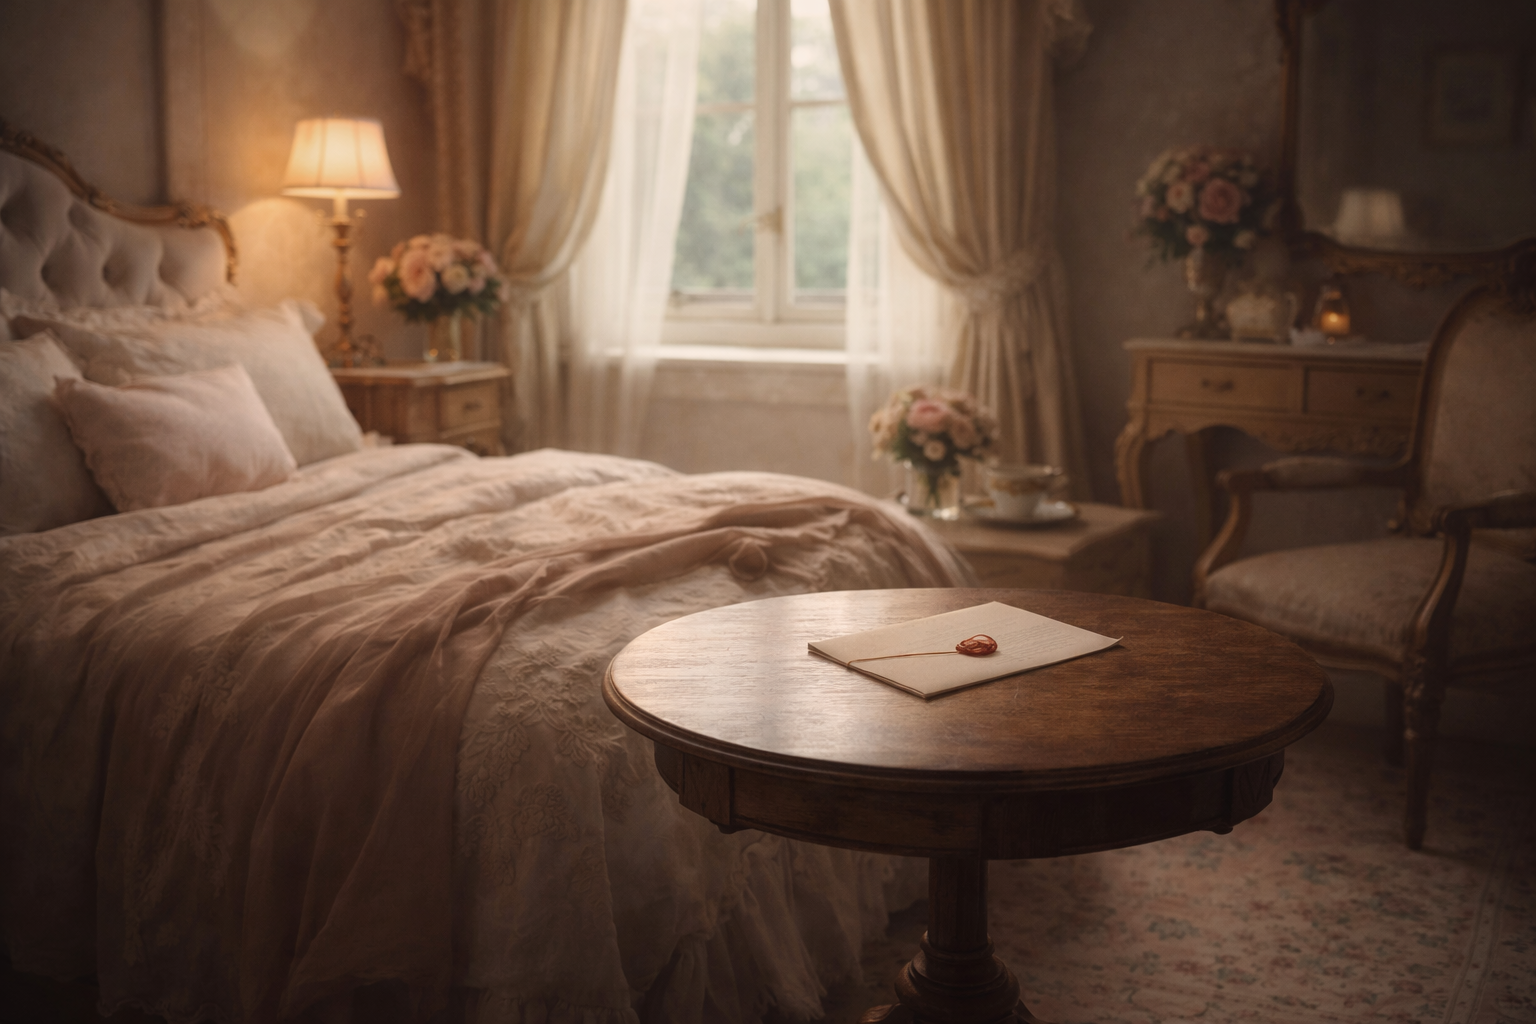
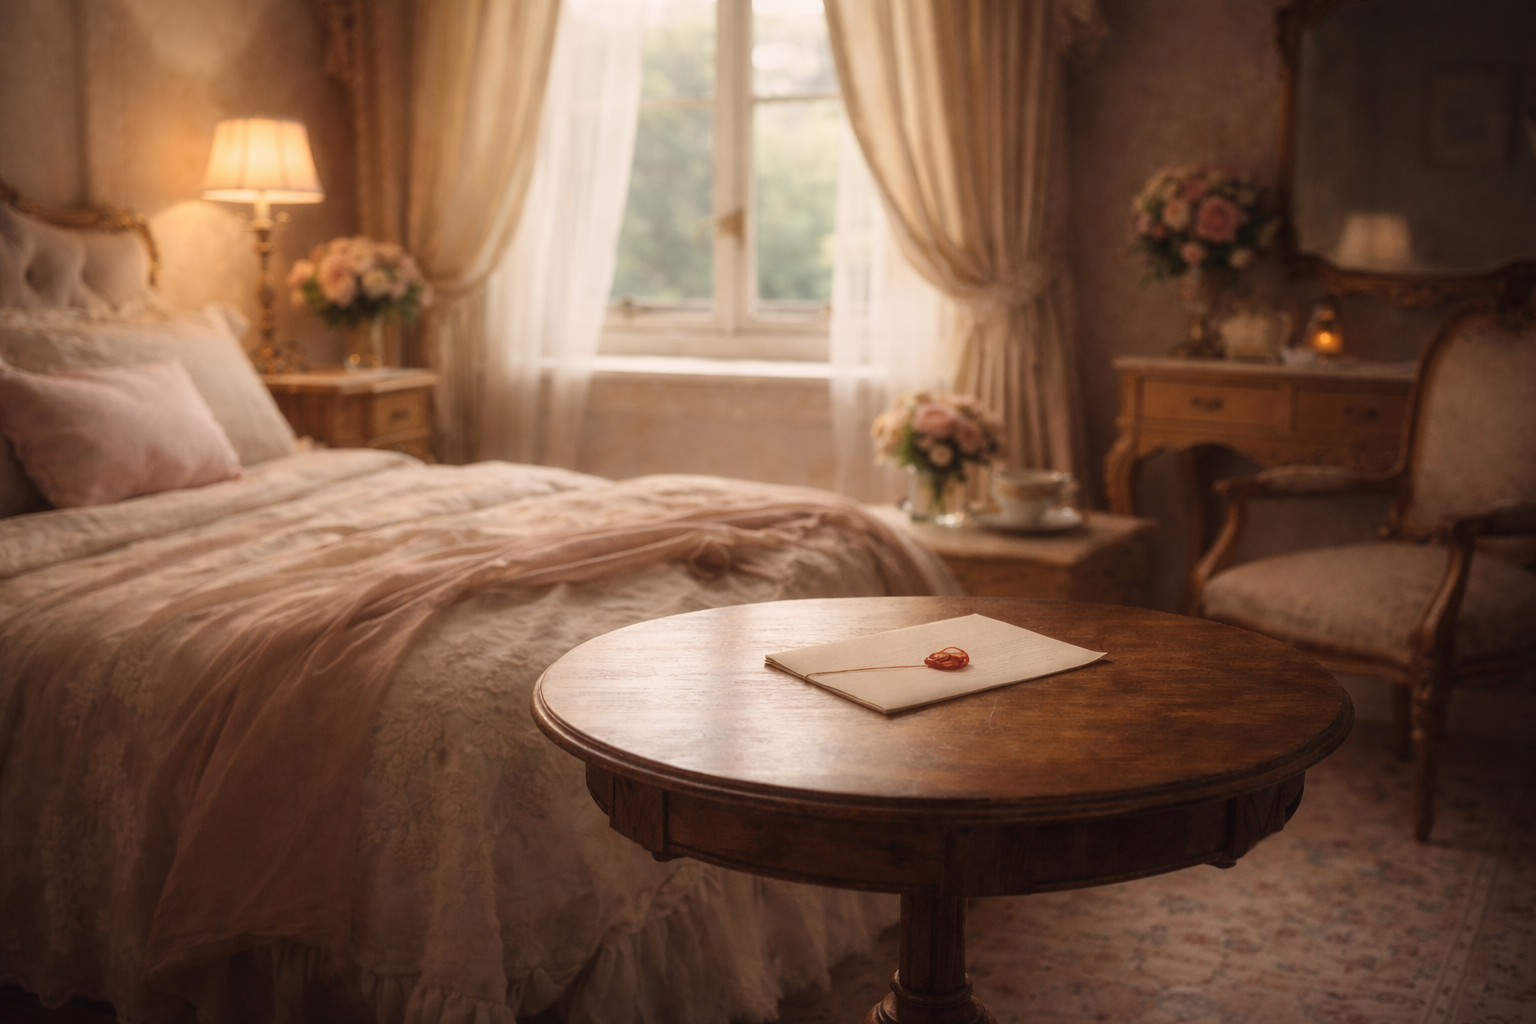
sqqsd

diff --git a/style.css b/style.css
@@ -1,11 +1,20 @@
-/* Algemene styling */
+/* =========================
+   Algemene styling voor alle pagina's
+   ========================= */
+
+/* Body algemeen */
 body {
     margin: 0;
+    padding: 0;
+    width: 100vw;
+    height: 100vh;
+    overflow: hidden; /* voorkomt scrollbars */
     font-family: 'Playfair Display', serif;
     color: #3d2c2a;
     text-align: center;
 }
 
+/* Links / buttons algemeen */
 a, button {
     font-family: inherit;
     font-size: 1rem;
@@ -15,29 +24,28 @@ a, button {
     background: none;
 }
 
-/* Landingpage */
+/* =========================
+   Landingpage styling
+   ========================= */
 body.landing-page {
     background: url('images/bg.png') center/cover no-repeat;
     background-size: cover;
     height: 100vh;
     filter: brightness(1.2);
-}
-
-body.landing-page header {
     display: flex;
     justify-content: center;
     align-items: center;
-    height: 100vh;
 }
 
 body.landing-page header .overlay {
-    background: rgba(255,245,240,0.7);
+    background: rgba(255, 245, 240, 0.7);
     padding: 50px;
     border-radius: 15px;
     display: inline-block;
     text-align: center;
 }
 
+/* Titel en subtitel landingpage */
 header .title {
     font-family: 'Great Vibes', cursive;
     font-size: 4rem;
@@ -53,6 +61,7 @@ header .subtitle {
     font-style: italic;
 }
 
+/* Landingpage knop */
 header .btn {
     text-decoration: none;
     background: #6b2d2a;
@@ -67,30 +76,25 @@ header .btn:hover {
     background: #8b5e58;
 }
 
-/* Kamerpagina */
-.room-container {
-    position: relative;
-    width: 100vw;
-    height: 100vh;
-    overflow: hidden;
-}
+/* =========================
+   Kamerpagina styling
+   ========================= */
 
-.room-bg {
+/* Kamer container full screen */
+.room-container {
     width: 100%;
     height: 100%;
-    object-fit: cover;
+    position: relative;
+}
+
+/* SVG volledige scherm */
+.room-svg {
+    width: 100%;
+    height: 100%;
     display: block;
 }
 
-.click-overlay {
-    position: absolute;
-    top: 0;
-    left: 0;
-    width: 100%;
-    height: 100%;
-    z-index: 2;
-}
-
+/* Letter popup styling */
 .letter-popup {
     display: none;
     position: fixed;
@@ -106,6 +110,7 @@ header .btn:hover {
 
 .letter-popup img {
     max-width: 400px;
+    height: auto;
 }
 
 .letter-popup button {
@@ -114,8 +119,36 @@ header .btn:hover {
     background: #6b2d2a;
     color: #fff;
     border-radius: 10px;
+    cursor: pointer;
 }
 
 .letter-popup button:hover {
     background: #8b5e58;
+}
+
+/* =========================
+   Extra: responsive landingpage
+   ========================= */
+@media (max-width: 992px) {
+    header .title {
+        font-size: 3rem;
+    }
+    header .subtitle {
+        font-size: 1.2rem;
+    }
+    header .btn {
+        padding: 12px 25px;
+    }
+}
+
+@media (max-width: 768px) {
+    header .title {
+        font-size: 2.5rem;
+    }
+    header .subtitle {
+        font-size: 1rem;
+    }
+    header .btn {
+        padding: 10px 20px;
+    }
 }

diff --git a/room.html b/room.html
@@ -8,59 +8,34 @@
 <body class="room">
 
     <div class="room-container">
-        <!-- Achtergrond afbeelding -->
-        <img src="images/room.png" alt="Room" class="room-bg">
+        <!-- SVG container met achtergrond als rect -->
+        <svg class="room-svg" viewBox="0 0 1200 800" preserveAspectRatio="xMidYMid slice">
+            <!-- Achtergrond -->
+            <image href="images/room.png" x="0" y="0" width="1200" height="800" preserveAspectRatio="xMidYMid slice" />
 
-        <!-- SVG overlay -->
-        <svg class="click-overlay" viewBox="0 0 1200 800" preserveAspectRatio="xMidYMid meet">
-            <rect id="letterRect"
-                  x="650" y="490" width="350" height="100"
+            <!-- Klikbare brief -->
+            <rect x="620" y="460" width="280" height="85"
                   fill="transparent"
-                  stroke="rgba(255,0,0,0.3)" stroke-width="2"
-                  cursor="pointer"/>
+                  stroke="rgba(255,0,0,0.3)"
+                  stroke-width="2"
+                  cursor="pointer"
+                  onclick="openLetter()"/>
         </svg>
     </div>
 
-    <!-- Popup brief -->
+    <!-- Popup -->
     <div class="letter-popup" id="letterPopup">
         <img src="images/whistledown.png" alt="Brief">
-        <button id="closeLetter">Close</button>
+        <button onclick="closeLetter()">Close</button>
     </div>
 
     <script>
-        const letterRect = document.getElementById('letterRect');
-        const letterPopup = document.getElementById('letterPopup');
-        const closeLetterBtn = document.getElementById('closeLetter');
-        const roomImg = document.querySelector('.room-bg');
-
-        // originele viewBox coords
-        const orig = { x: 650, y: 490, width: 350, height: 100 };
-        const viewBoxWidth = 1200;
-        const viewBoxHeight = 800;
-
-        // functie om te schalen
-        function scaleRect() {
-            const scaleX = roomImg.clientWidth / viewBoxWidth;
-            const scaleY = roomImg.clientHeight / viewBoxHeight;
-
-            letterRect.setAttribute('x', orig.x * scaleX);
-            letterRect.setAttribute('y', orig.y * scaleY);
-            letterRect.setAttribute('width', orig.width * scaleX);
-            letterRect.setAttribute('height', orig.height * scaleY);
+        function openLetter() {
+            document.getElementById('letterPopup').style.display = 'block';
         }
-
-        window.addEventListener('resize', scaleRect);
-        window.addEventListener('load', scaleRect);
-
-        // open popup
-        letterRect.addEventListener('click', () => {
-            letterPopup.style.display = 'block';
-        });
-
-        // sluit popup
-        closeLetterBtn.addEventListener('click', () => {
-            letterPopup.style.display = 'none';
-        });
+        function closeLetter() {
+            document.getElementById('letterPopup').style.display = 'none';
+        }
     </script>
 </body>
 </html>
